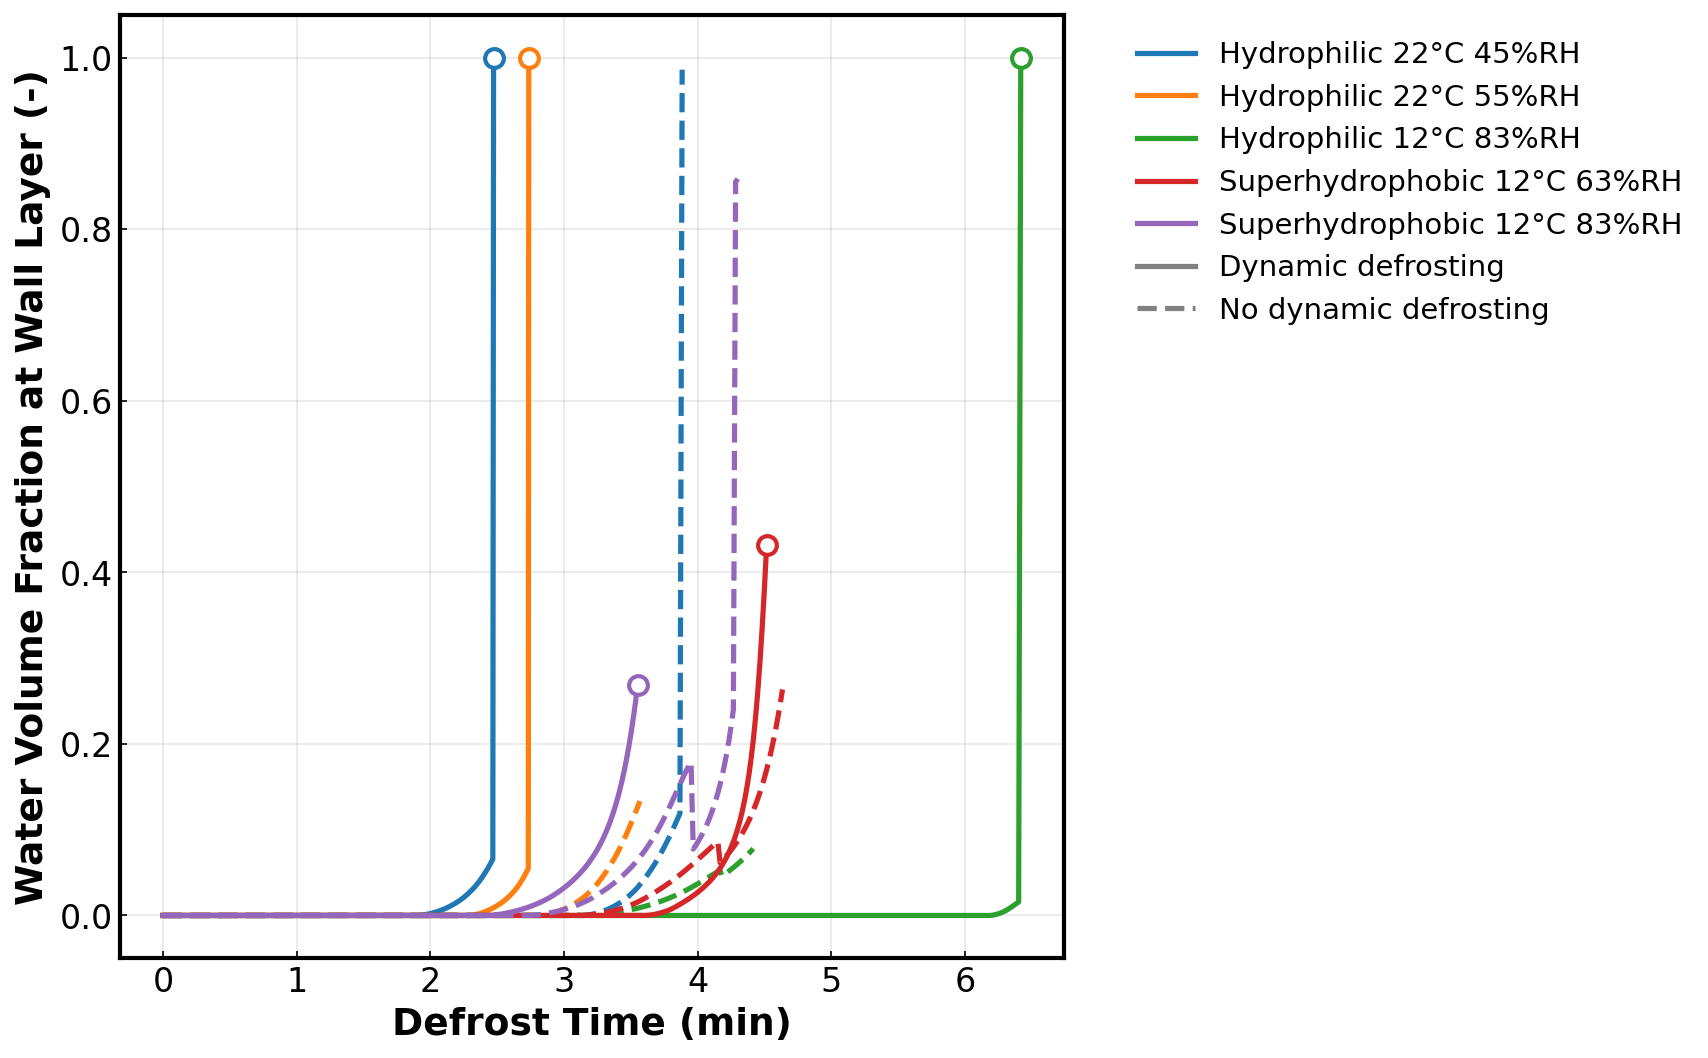
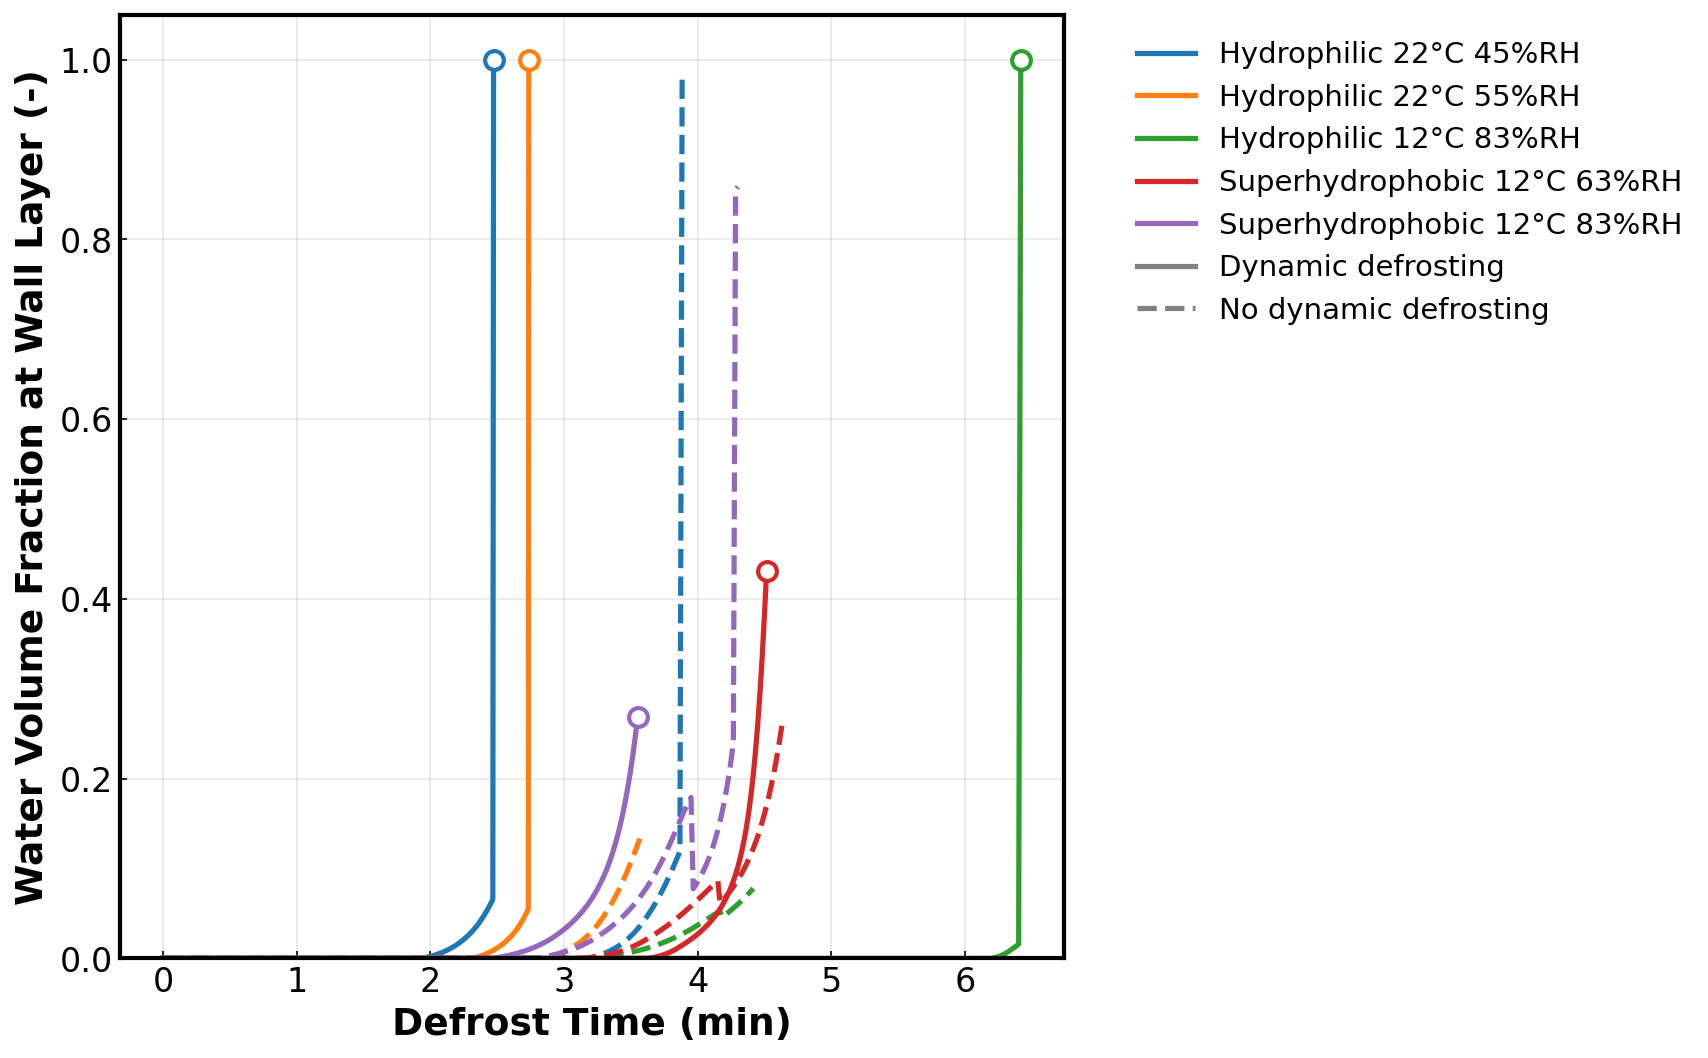
Anchor y-axis at zero in per-condition and combined defrost figures

diff --git a/plot_defrost_thickness_comparison.py b/plot_defrost_thickness_comparison.py
@@ -296,6 +296,7 @@ def _plot_condition_pairs(quantity, ylabel, output_file, output_dir='figure',
     for spine in ax.spines.values():
         spine.set_linewidth(2)
     ax.set_box_aspect(1)
+    ax.set_ylim(bottom=0)
 
     # Legend: condition colors plus line-style indicators (no box)
     from matplotlib.lines import Line2D
@@ -424,6 +425,7 @@ def _plot_single_condition(label, cases, quantity, ylabel,
     for spine in ax.spines.values():
         spine.set_linewidth(2)
     ax.set_box_aspect(1)
+    ax.set_ylim(bottom=0)
 
     ax.legend(fontsize=14, frameon=False, loc='best')
 
